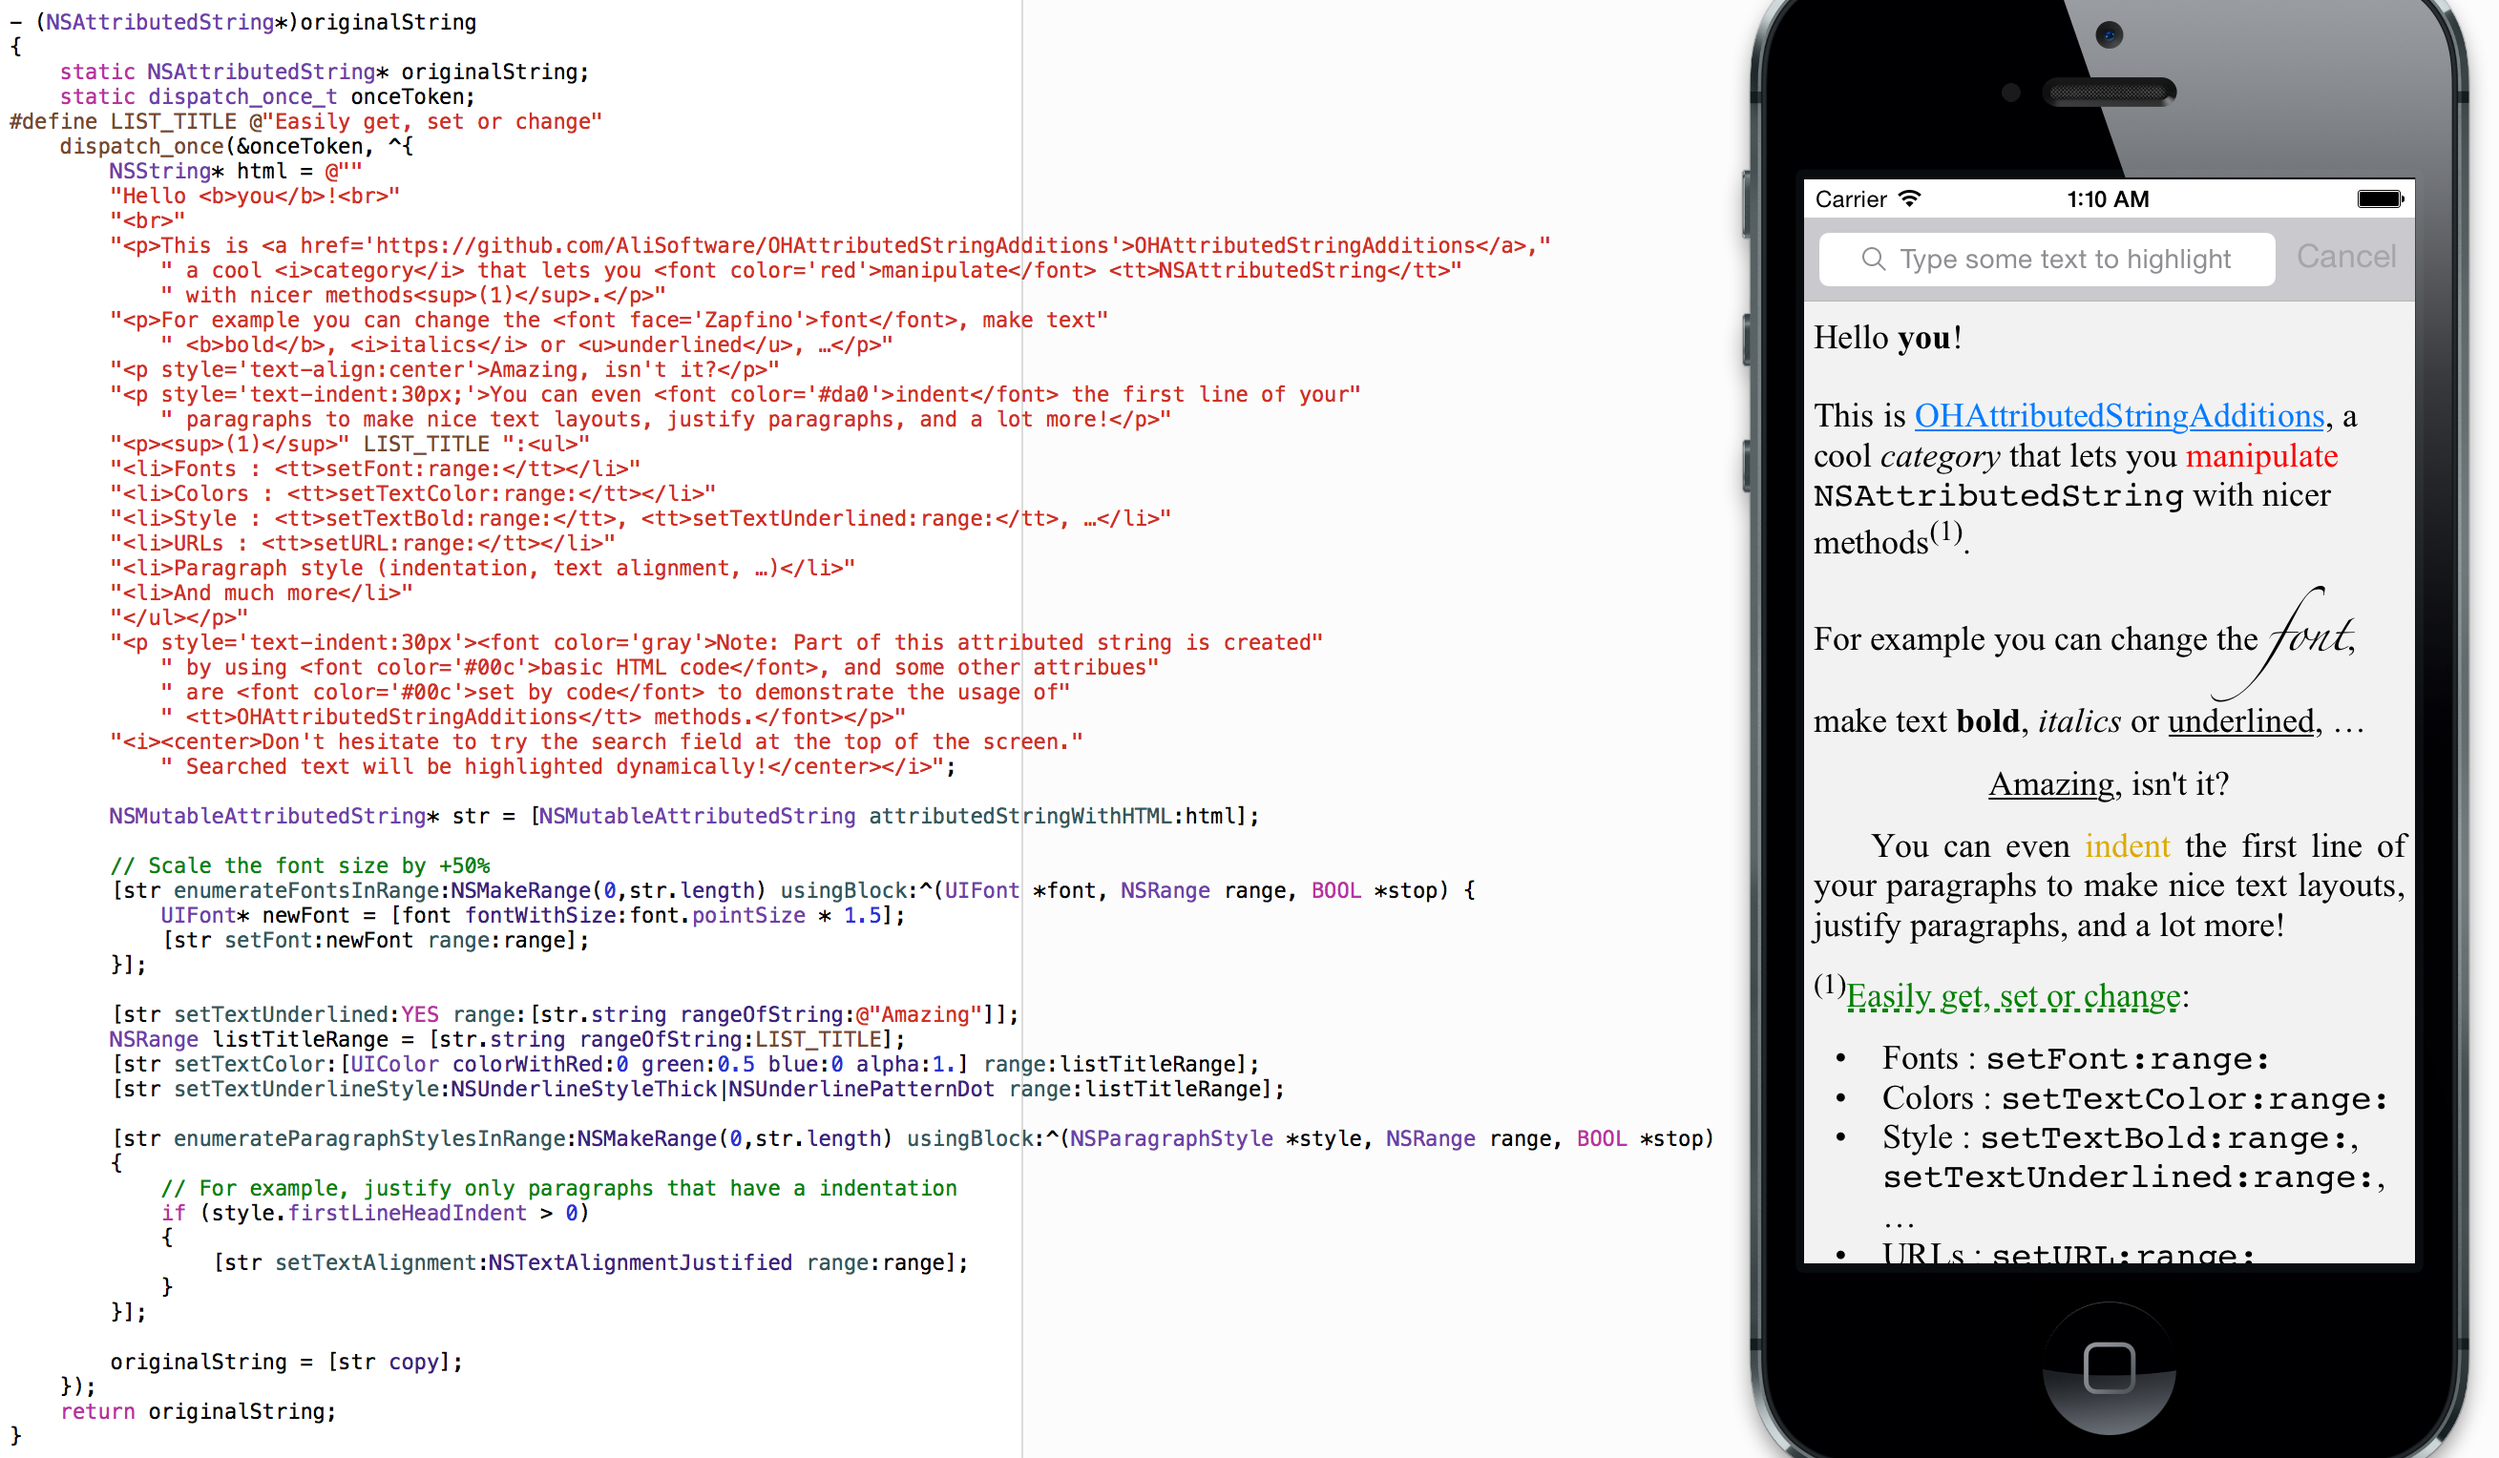
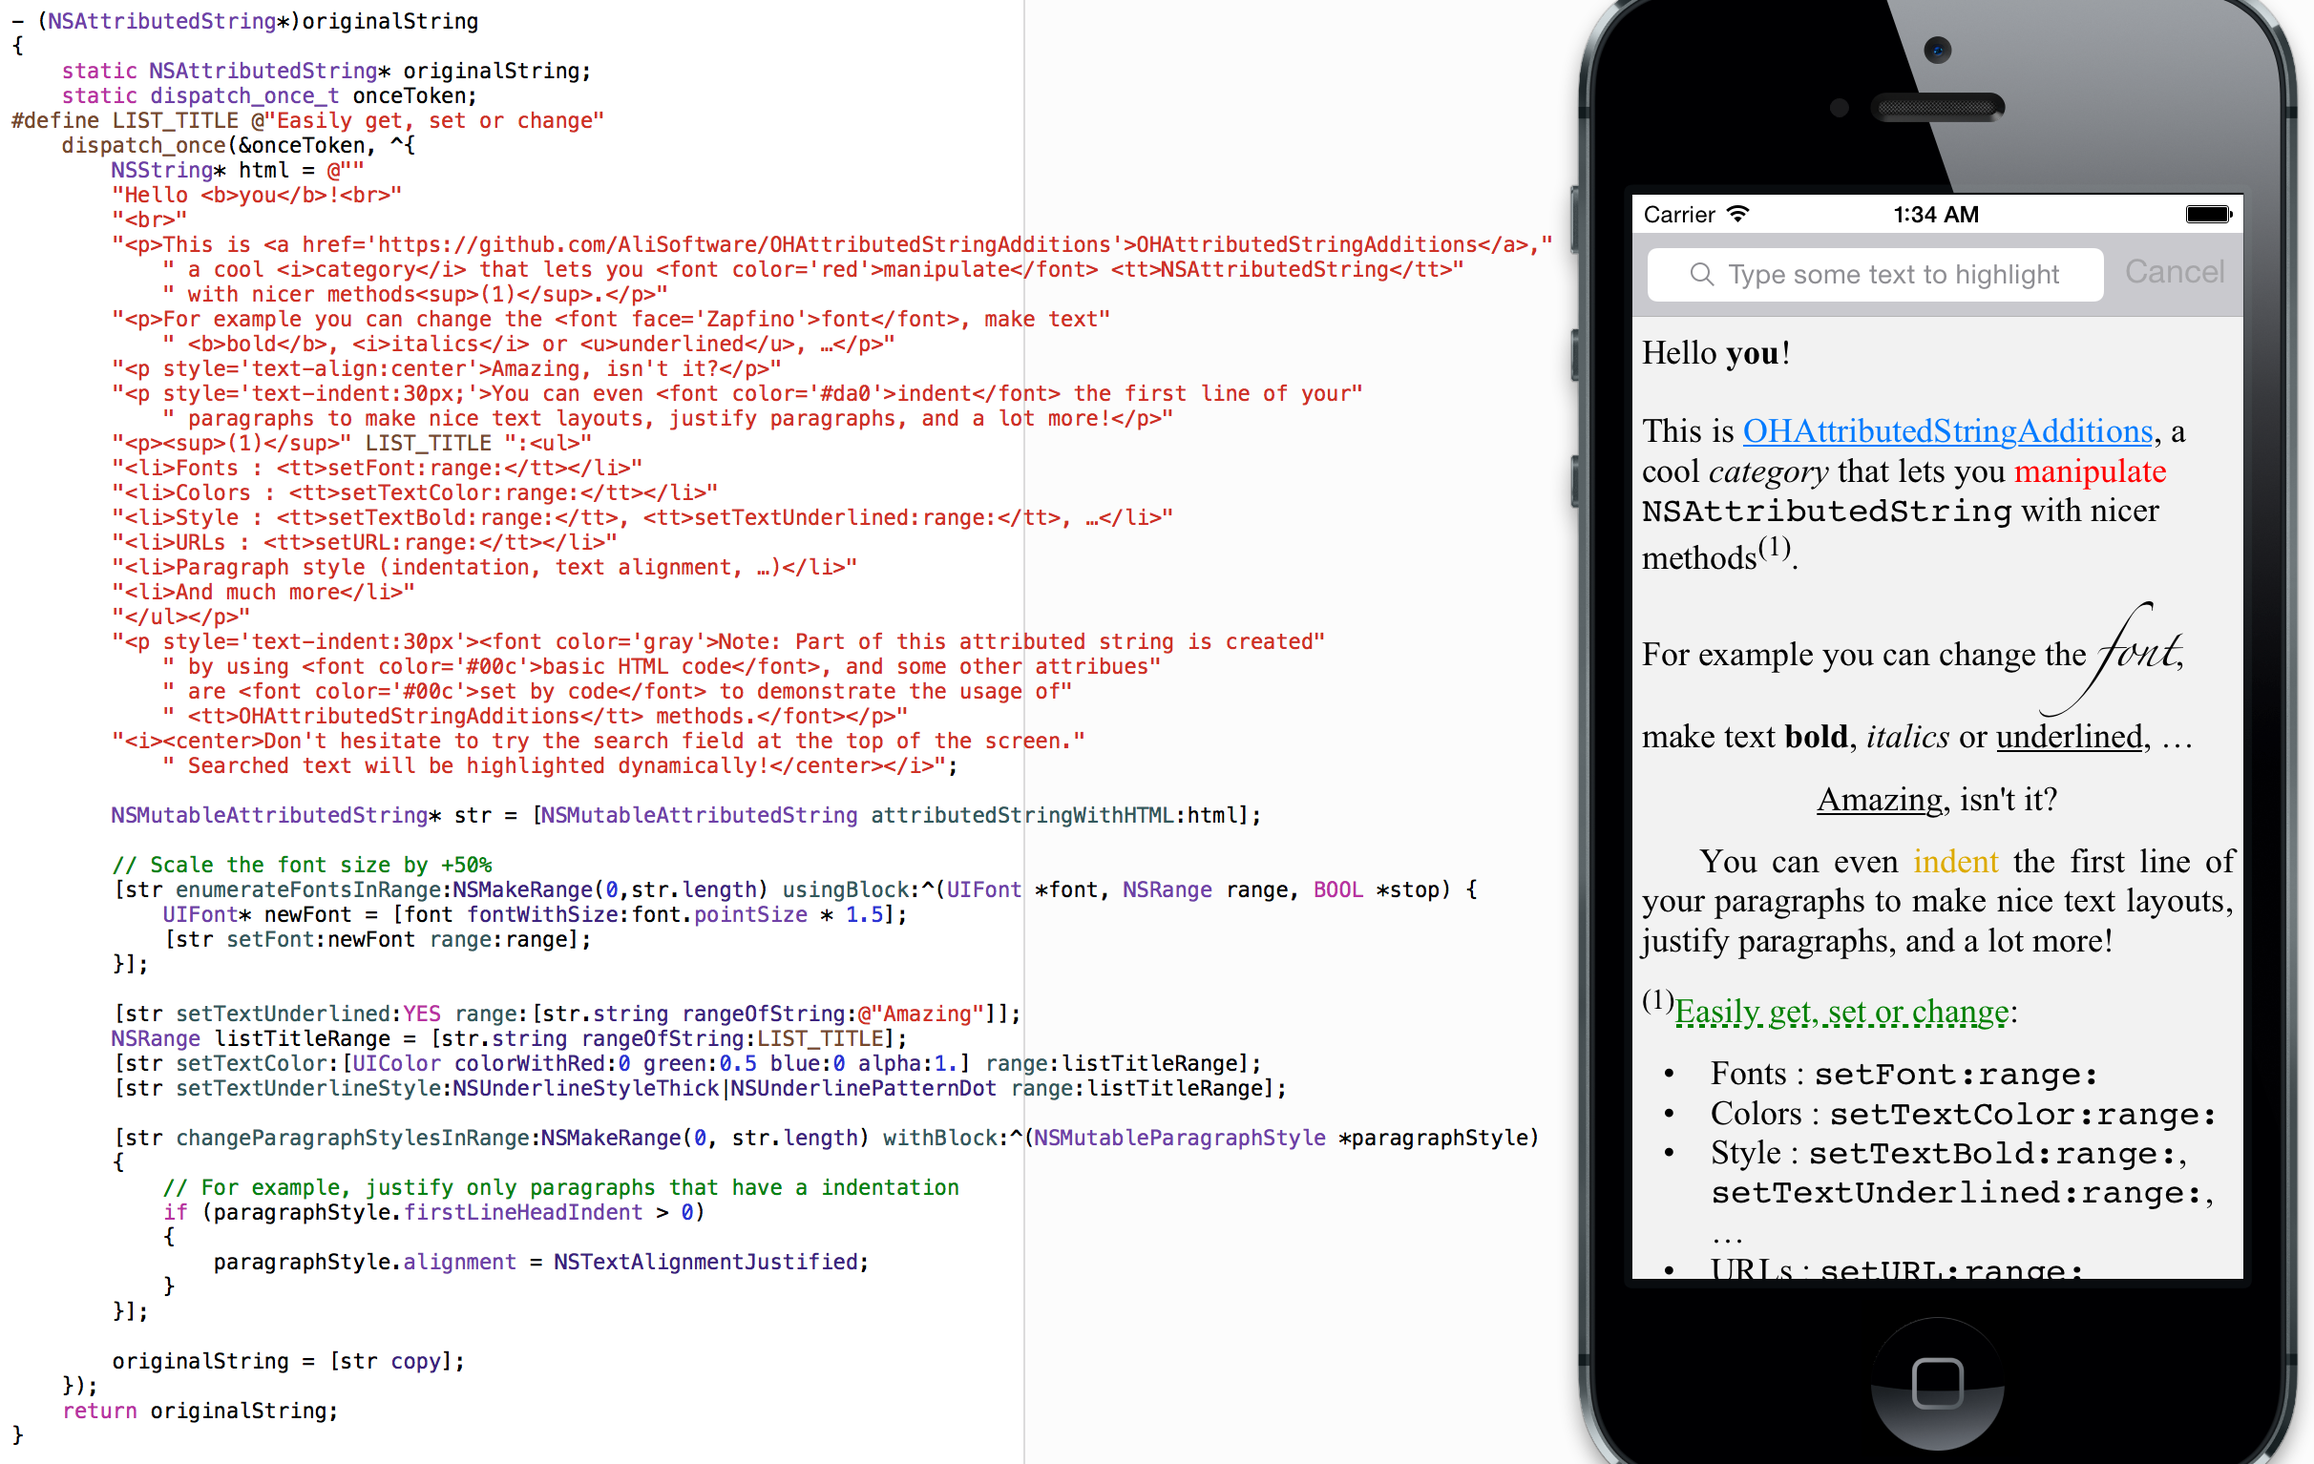
Added roadmap to README file.

Changed region(s): [[0.0, 0.0, 1.0, 1.0], [0.0309, 0.892, 0.1856, 0.9843], [0.8045, 0.9228, 0.8663, 1.0]]

diff --git a/Example/AttributedStringDemo/ASDViewController.m b/Example/AttributedStringDemo/ASDViewController.m
@@ -77,12 +77,12 @@
         [str setTextColor:[UIColor colorWithRed:0 green:0.5 blue:0 alpha:1.] range:listTitleRange];
         [str setTextUnderlineStyle:NSUnderlineStyleThick|NSUnderlinePatternDot range:listTitleRange];
         
-        [str enumerateParagraphStylesInRange:NSMakeRange(0,str.length) usingBlock:^(NSParagraphStyle *style, NSRange range, BOOL *stop)
+        [str changeParagraphStylesInRange:NSMakeRange(0, str.length) withBlock:^(NSMutableParagraphStyle *paragraphStyle)
         {
             // For example, justify only paragraphs that have a indentation
-            if (style.firstLineHeadIndent > 0)
+            if (paragraphStyle.firstLineHeadIndent > 0)
             {
-                [str setTextAlignment:NSTextAlignmentJustified range:range];
+                paragraphStyle.alignment = NSTextAlignmentJustified;
             }
         }];
         

diff --git a/README.md b/README.md
@@ -36,6 +36,16 @@ A demo project is provided in the repository. Don't hesitate to open `Example/At
 
 ![Demo Capture](README.png)
 
+## Future improvements
+
+This pod is in its early release. A lot of improvements are already planned to be released soon:
+
+* Adding **Unit Tests for methods of the `NSMutableAttributedString`** category (for now UnitTests exists for the `UIFont` and `NSAttributedString` category only)
+* Improving **documentation on edge cases**, like documenting the behavior about when some attribute is not present or if we are allowed to pass nil to arguments.
+* Adding **support for OSX**. This should only need little adjustments, like getting rid of the `#import <UIKit/UIKit.h>` in the pch file, or replacing `UIColor` and `UIFont` classes with `NSColor` and `NSFont` (using macros to switch from one to another depending on the SDK), but that still requires some work.
+
+> _Note: The original code of these categories comes from my old `OHAttributedLabel` pod, which is now deprecated as I don't have time to maintain it. But as those categories were still useful I extracted them in a dedicated pod and converted them to create UIKit-complient `NSAttributedString`, not related to CoreText anymore._
+
 ## Licence
 
 This component is under the MIT Licence
